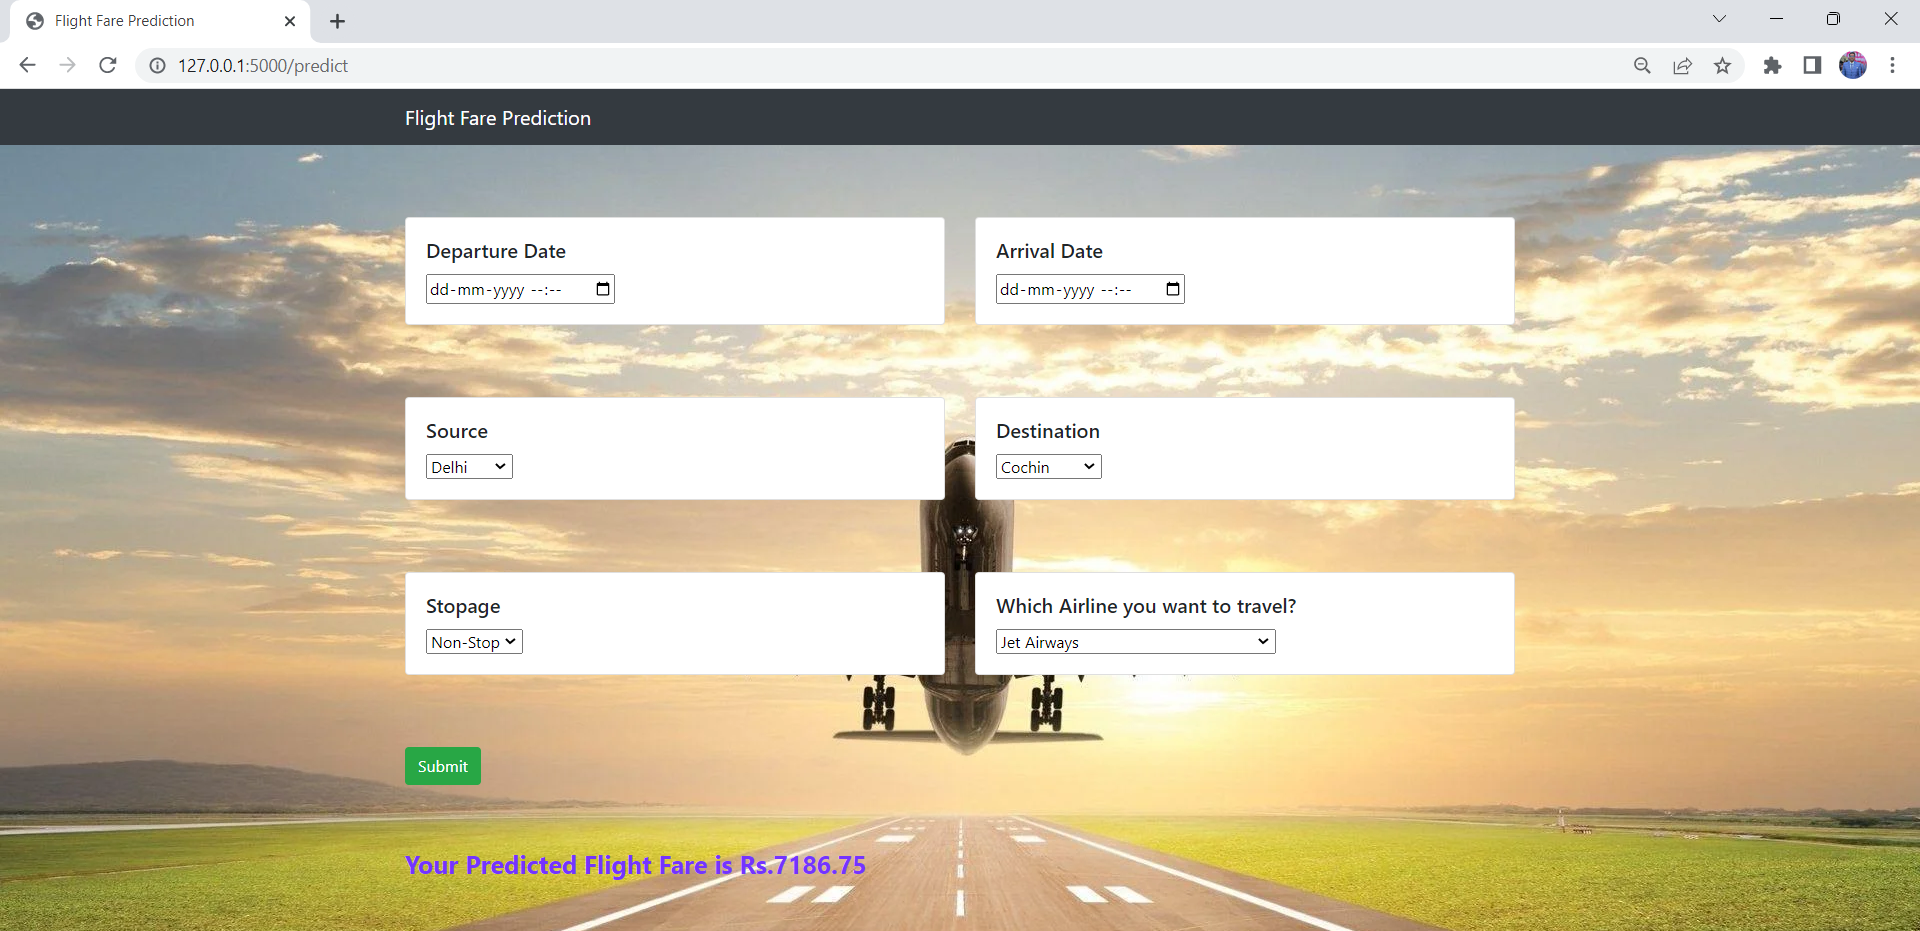
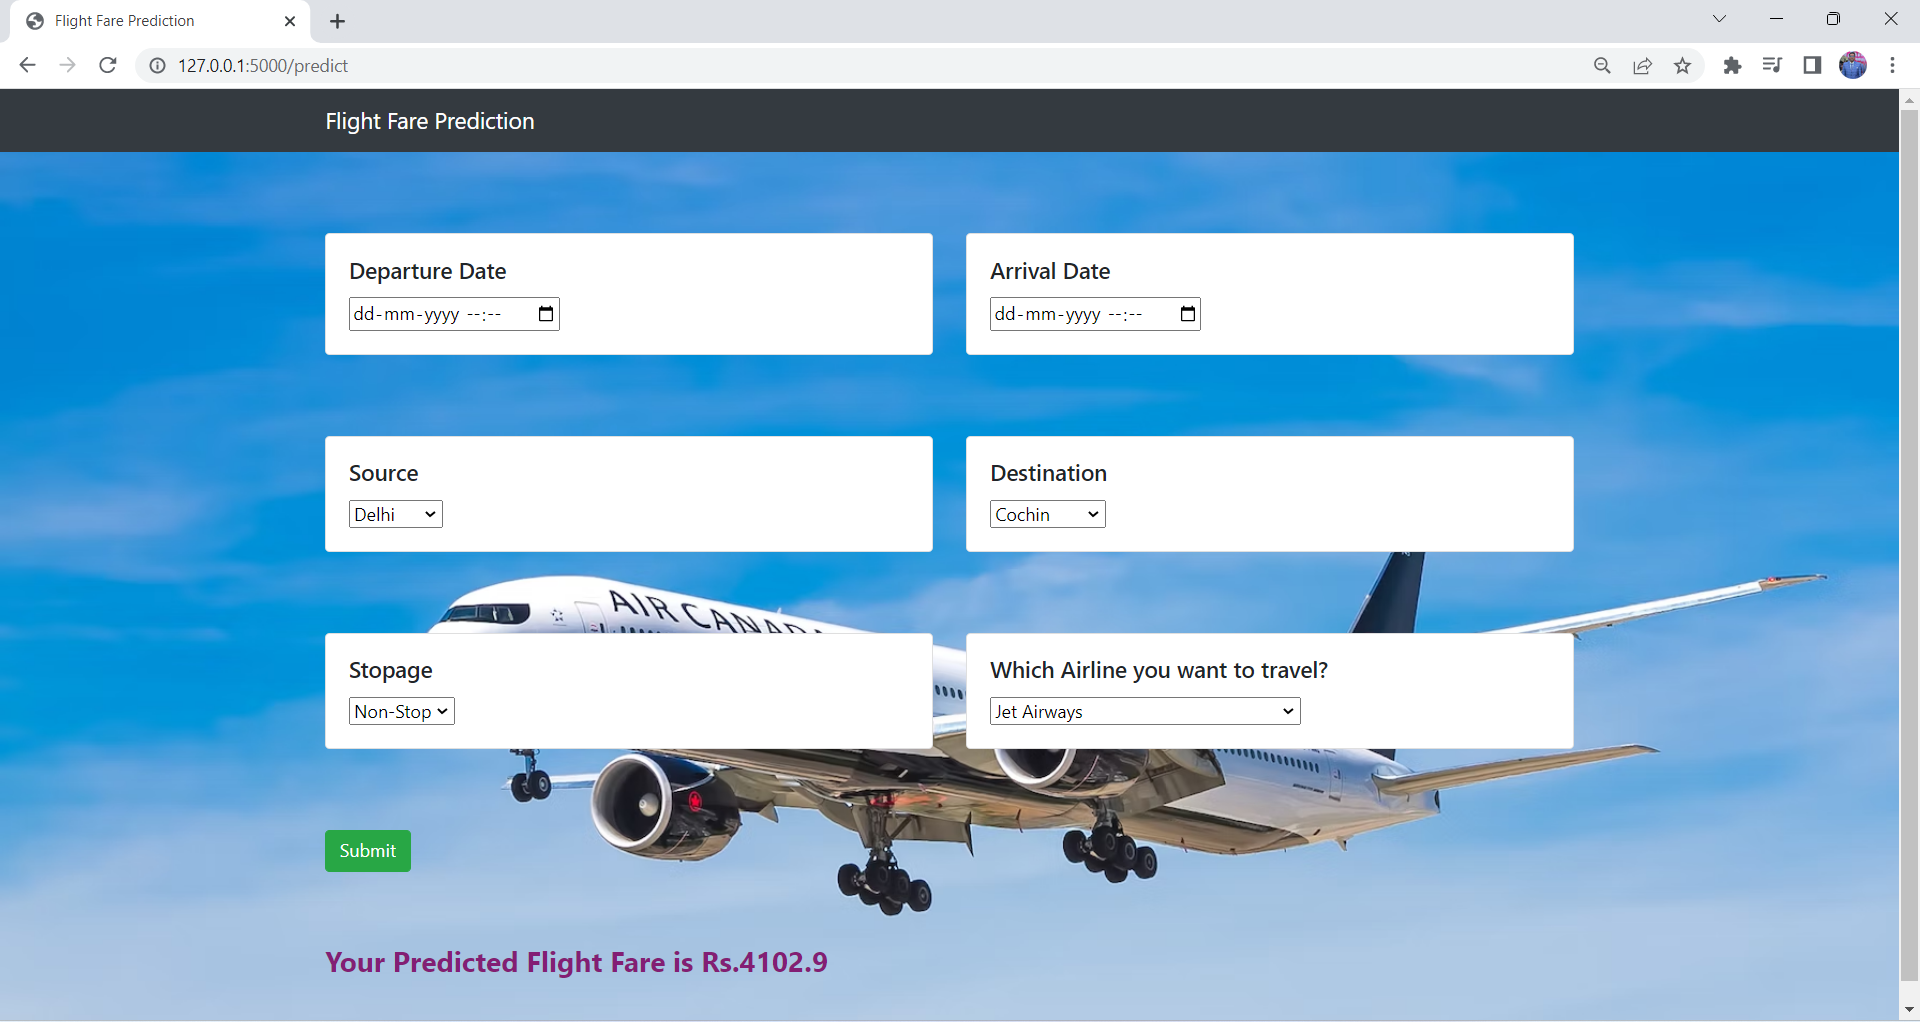
commit

diff --git a/templates/home.html b/templates/home.html
@@ -5,7 +5,7 @@
     <meta charset="UTF-8">
     <meta name="viewport" content="width=device-width, initial-scale=1.0">
     <title>Flight Fare Prediction</title>
-    <div style="background-size: cover; background-repeat: no-repeat; background-image: url(https://wallpapercave.com/wp/wp3989747.jpg);">
+    <div style="background-size: cover; background-repeat: no-repeat; background-image: url(https://images.unsplash.com/photo-1529074963764-98f45c47344b?ixlib=rb-1.2.1&ixid=MnwxMjA3fDB8MHxwaG90by1wYWdlfHx8fGVufDB8fHx8&auto=format&fit=crop&w=1772&q=80);">
 
 
 
@@ -160,22 +160,12 @@
 
         <br>
         <br>
-        <h3 style="font-size:25px; color:#7433FF; font-weight: bold;">{{ prediction_text }}</h3>
+        <h3 style="font-size:25px; color:#831E74; font-weight: bold;">{{ prediction_text }}</h3>
         <br>
         <br>
       
 
     </div>
-    <!-- Footer -->
-    <footer class="bg-dark text-center text-white">
-        <!-- Grid container -->
-        <div class="container p-1 pb-0">
-
-        <div class="text-center p-3" style="background-color: rgba(0, 0, 0, 0.2);">
-          <a class="text-white" href="#">© 2022 Mehul Rampratap Nayak. All rights reserved. </a>
-        </div>
-      </footer>
-
     <!-- JavaScript -->
     <script src="https://code.jquery.com/jquery-3.5.1.slim.min.js"
         integrity="sha384-DfXdz2htPH0lsSSs5nCTpuj/zy4C+OGpamoFVy38MVBnE+IbbVYUew+OrCXaRkfj"
